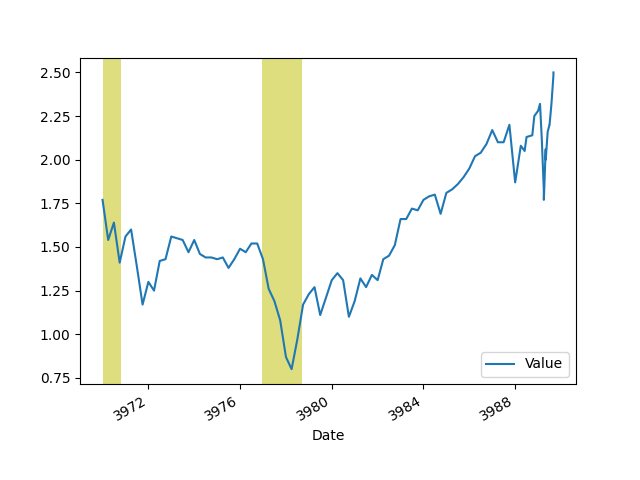
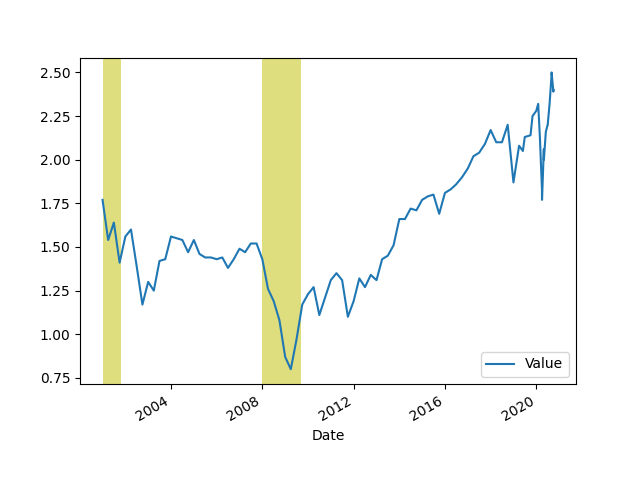
-

diff --git a/en/2020/02/corona.md b/en/2020/02/corona.md
@@ -81,22 +81,23 @@ df['UK %'] = df['United Kingdom'].pct_change().rolling(10).mean()*100.0
 ```
 
 ```python
-pd.set_option('display.width', 1000)
+pd.set_option('display.width', 2000)
+pd.set_option('display.max_columns', None)
 print (df[['Germany +','Germany %','UK +','UK %']].tail(10))
 ```
 
 ```text
-Country/Region  Germany +  Germany %    UK +      UK %
-9/9/20             1476.0   0.526991  2681.0  0.605502
-9/10/20            1716.0   0.532382  2931.0  0.645432
-9/11/20            1586.0   0.544269  3544.0  0.704330
-9/12/20            1082.0   0.529182  3504.0  0.755964
-9/13/20             920.0   0.506698  3338.0  0.794590
-9/14/20            1485.0   0.505445  2625.0  0.807641
-9/15/20            1792.0   0.542560  3115.0  0.838025
-9/16/20            1855.0   0.585869  4007.0  0.858203
-9/17/20            2179.0   0.592121  3410.0  0.863345
-9/18/20            2199.0   0.621374  4329.0  0.905661
+Country/Region  Germany +  Germany %     UK +      UK %
+9/28/20            2292.0   0.623245   4056.0  1.291212
+9/29/20            1840.0   0.624874   7156.0  1.339242
+9/30/20            2442.0   0.671096   7117.0  1.398595
+10/1/20            2626.0   0.702528   6929.0  1.440250
+10/2/20            2835.0   0.731246   6994.0  1.468327
+10/3/20            1653.0   0.728501  12885.0  1.590243
+10/4/20            1546.0   0.696847  22965.0  1.904884
+10/5/20            3100.0   0.715546  12603.0  1.989946
+10/6/20            2454.0   0.749777  14557.0  2.128753
+10/7/20            4010.0   0.834276  14173.0  2.262773
 ```
 
 

diff --git a/en/2019/05/stats.md b/en/2019/05/stats.md
@@ -311,10 +311,10 @@ plt.savefig('pmi.png')
 
 ```text
 Date
-2020-05-01    43.1
 2020-06-01    52.6
 2020-07-01    54.2
 2020-08-01    56.0
+2020-09-01    55.4
 Name: PMI, dtype: float64
 ```
 
@@ -484,11 +484,11 @@ plt.savefig('price-sales.png')
 ```text
             Value
 Date             
-2020-06-30   2.20
-2020-07-01   2.20
 2020-07-31   2.32
 2020-08-31   2.48
 2020-09-01   2.50
+2020-09-30   2.39
+2020-10-01   2.40
 ```
 
 ![](price-sales.png)
